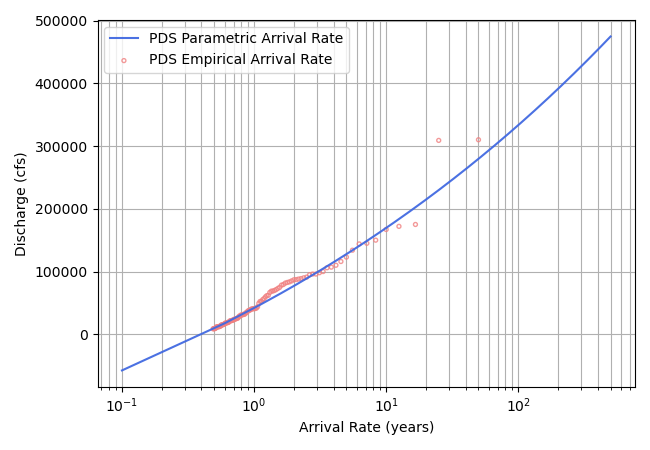
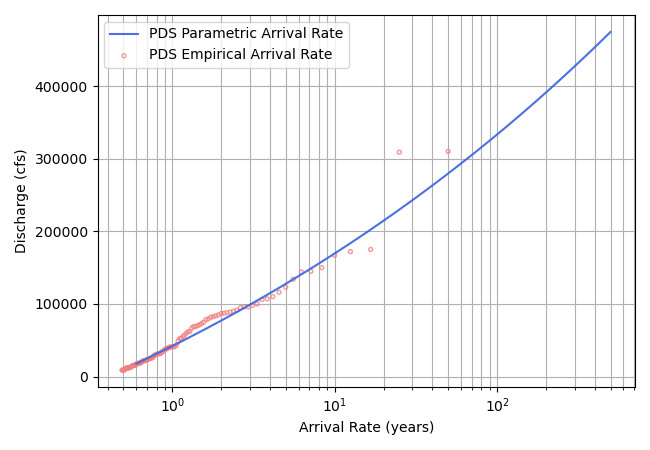
fix ffa plotting for negative flowrates

Changed region(s): [[0.0, 0.0311, 0.9846, 0.9333]]

diff --git a/src/dotmodel/plotting.py b/src/dotmodel/plotting.py
@@ -19,6 +19,8 @@ def plot_marginal_fit(peaks, record_length, xi, alpha, k, save_path, ri_bounds=(
 
     recurrence_intervals = np.linspace(ri_bounds[0], ri_bounds[1], 1000)
     flow_space = xi + ((alpha * (1 - ((1 / recurrence_intervals) ** k))) / k)
+    recurrence_intervals = recurrence_intervals[flow_space > 0]
+    flow_space = flow_space[flow_space > 0]
 
     marginal.plot(recurrence_intervals, flow_space, alpha=0.95, zorder=12, c='royalblue', label='PDS Parametric Arrival Rate')
     marginal.scatter(plotting_positions, peaks, alpha=0.8, ec='lightcoral', fc='none', s=8, zorder=11, label='PDS Empirical Arrival Rate')
